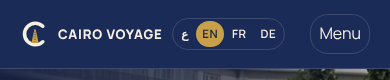
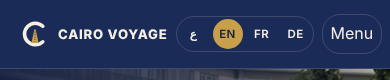
Accessibility: darker WhatsApp button for contrast, 32px language links
Claude-Session: https://claude.ai/code/session_01StgMZBB5h9vZRGUiyguZfs

diff --git a/src/style.css b/src/style.css
@@ -421,9 +421,9 @@ body.has-picks .fab{display:none}
 .foot .wrap{display:flex;flex-wrap:wrap;gap:12px 28px;justify-content:space-between;padding-block:28px 96px}
 .foot .logo .l1{color:var(--on-dark)}
 
-.fab{position:fixed;z-index:40;bottom:calc(18px + env(safe-area-inset-bottom,0px));inset-inline-end:calc(18px + env(safe-area-inset-right,0px));background:#1F8F5A;color:#fff;border-radius:999px;padding:12px 18px;display:flex;gap:8px;align-items:center;text-decoration:none;font-weight:600;box-shadow:0 10px 30px -8px rgba(0,0,0,.4)}
+.fab{position:fixed;z-index:40;bottom:calc(18px + env(safe-area-inset-bottom,0px));inset-inline-end:calc(18px + env(safe-area-inset-right,0px));background:#14703F;color:#fff;border-radius:999px;padding:12px 18px;display:flex;gap:8px;align-items:center;text-decoration:none;font-weight:600;box-shadow:0 10px 30px -8px rgba(0,0,0,.4)}
 .fab svg{width:22px;height:22px}
-.fab:hover{background:#18784B}
+.fab:hover{background:#0F5A32}
 
 
 /* real photos (when added from the dashboard) */
@@ -487,3 +487,7 @@ body.has-picks .fab{display:none}
 .tips .pr h3{color:var(--on-dark)}
 .tips .pr p{color:var(--on-dark-muted)}
 .tips .pr svg{color:var(--accent)}
+/* touch targets: language links at least 32px */
+.langs{gap:4px}
+.langs a{display:inline-flex;align-items:center;justify-content:center;min-width:32px;min-height:32px}
+@media (max-width:520px){.langs a{min-width:30px;min-height:30px;padding:2px 4px}.hdr .wrap{gap:8px}}
